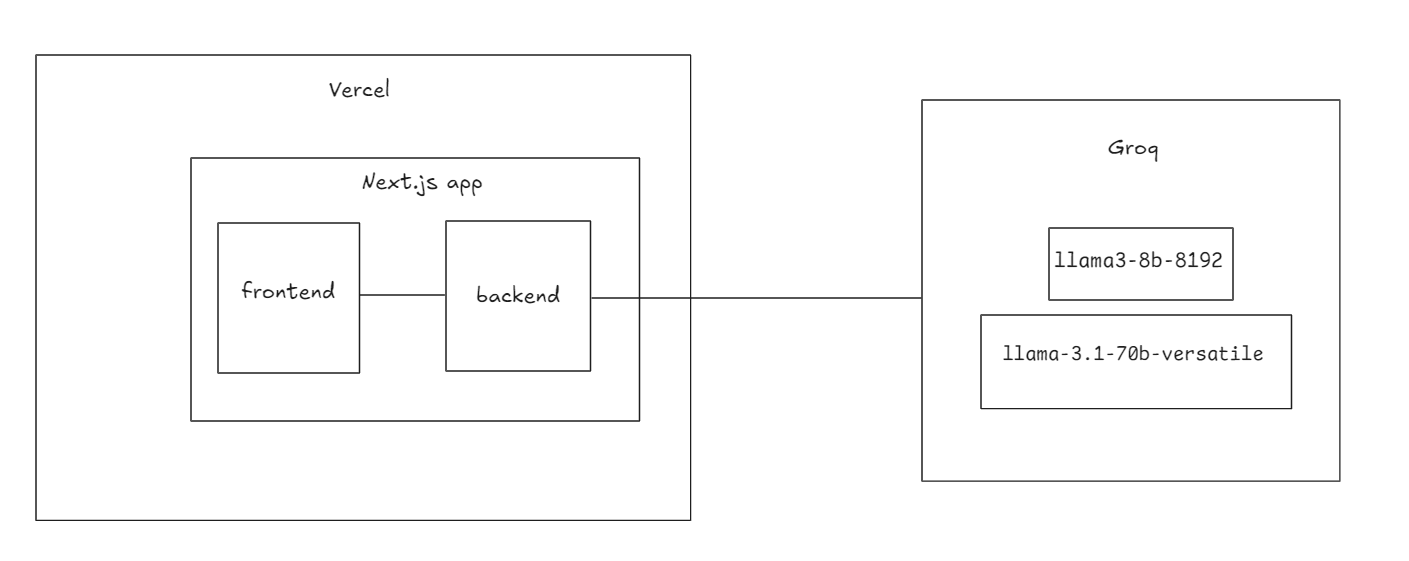
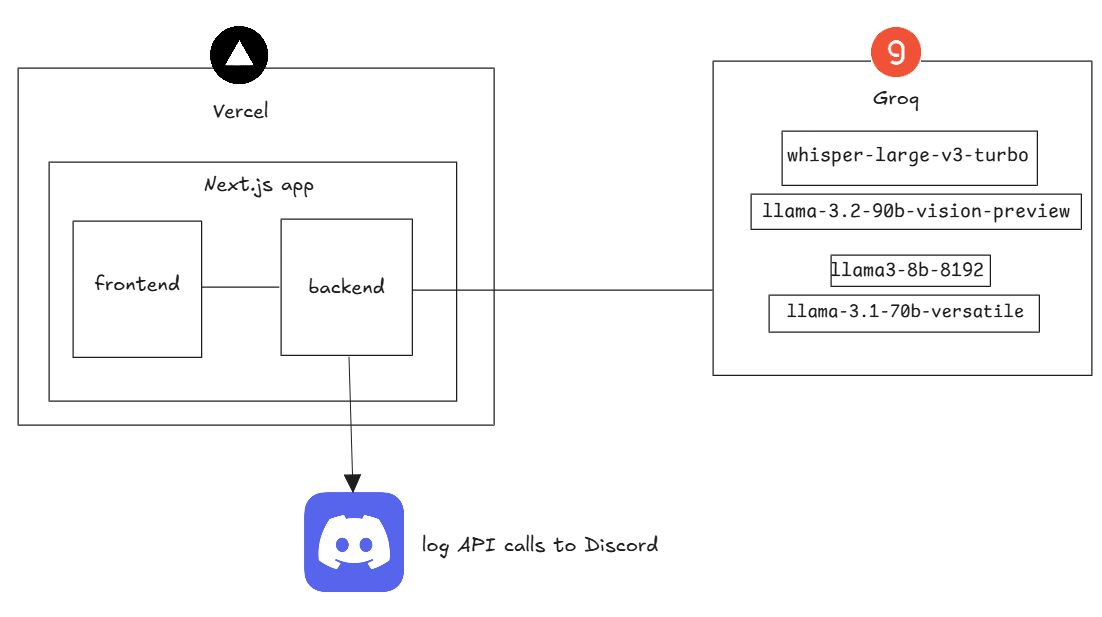
update readme

diff --git a/README.md b/README.md
@@ -1,17 +1,30 @@
 # LLMCalculator
 
-Calculator powered by LLM.
+Calculator powered by LLMs.
+
 
 ![example: 1+1](./images/example1.png)
 ![example: 10+1010](./images/example1010.png)
+### Audio Input
+![example: 1+1](./images/audio_example.png)
+### Image Input
+![example: 10+1010](./images/image_example.png)
 
 ## Architecture
-Next.js app hosted on Vercel, calls Groq API to query Llama models.
+No credit card stack:
+- Next.js app deployed on Vercel (free tier)
+- Groq to query LLM models (free tier limits 15-30 requests/min depending on model) 
+- Discord for logging
 
 ![architecture](./images/architecture.png)
 
 ## Local development
-Create `.env.local` file and specify a `GROQ_API_KEY`.
+Create a `.env.local` file with the following:
+```
+GROQ_API_KEY=<YOUR_GROQ_API_KEY>
+DISCORD_CHANNEL_ID=<YOUR_DISCORD_CHANNEL_ID>
+DISCORD_BOT_TOKEN=<YOUR_DISCORD_BOT_TOKEN>
+```
 
 Run the development server:
 ```bash
